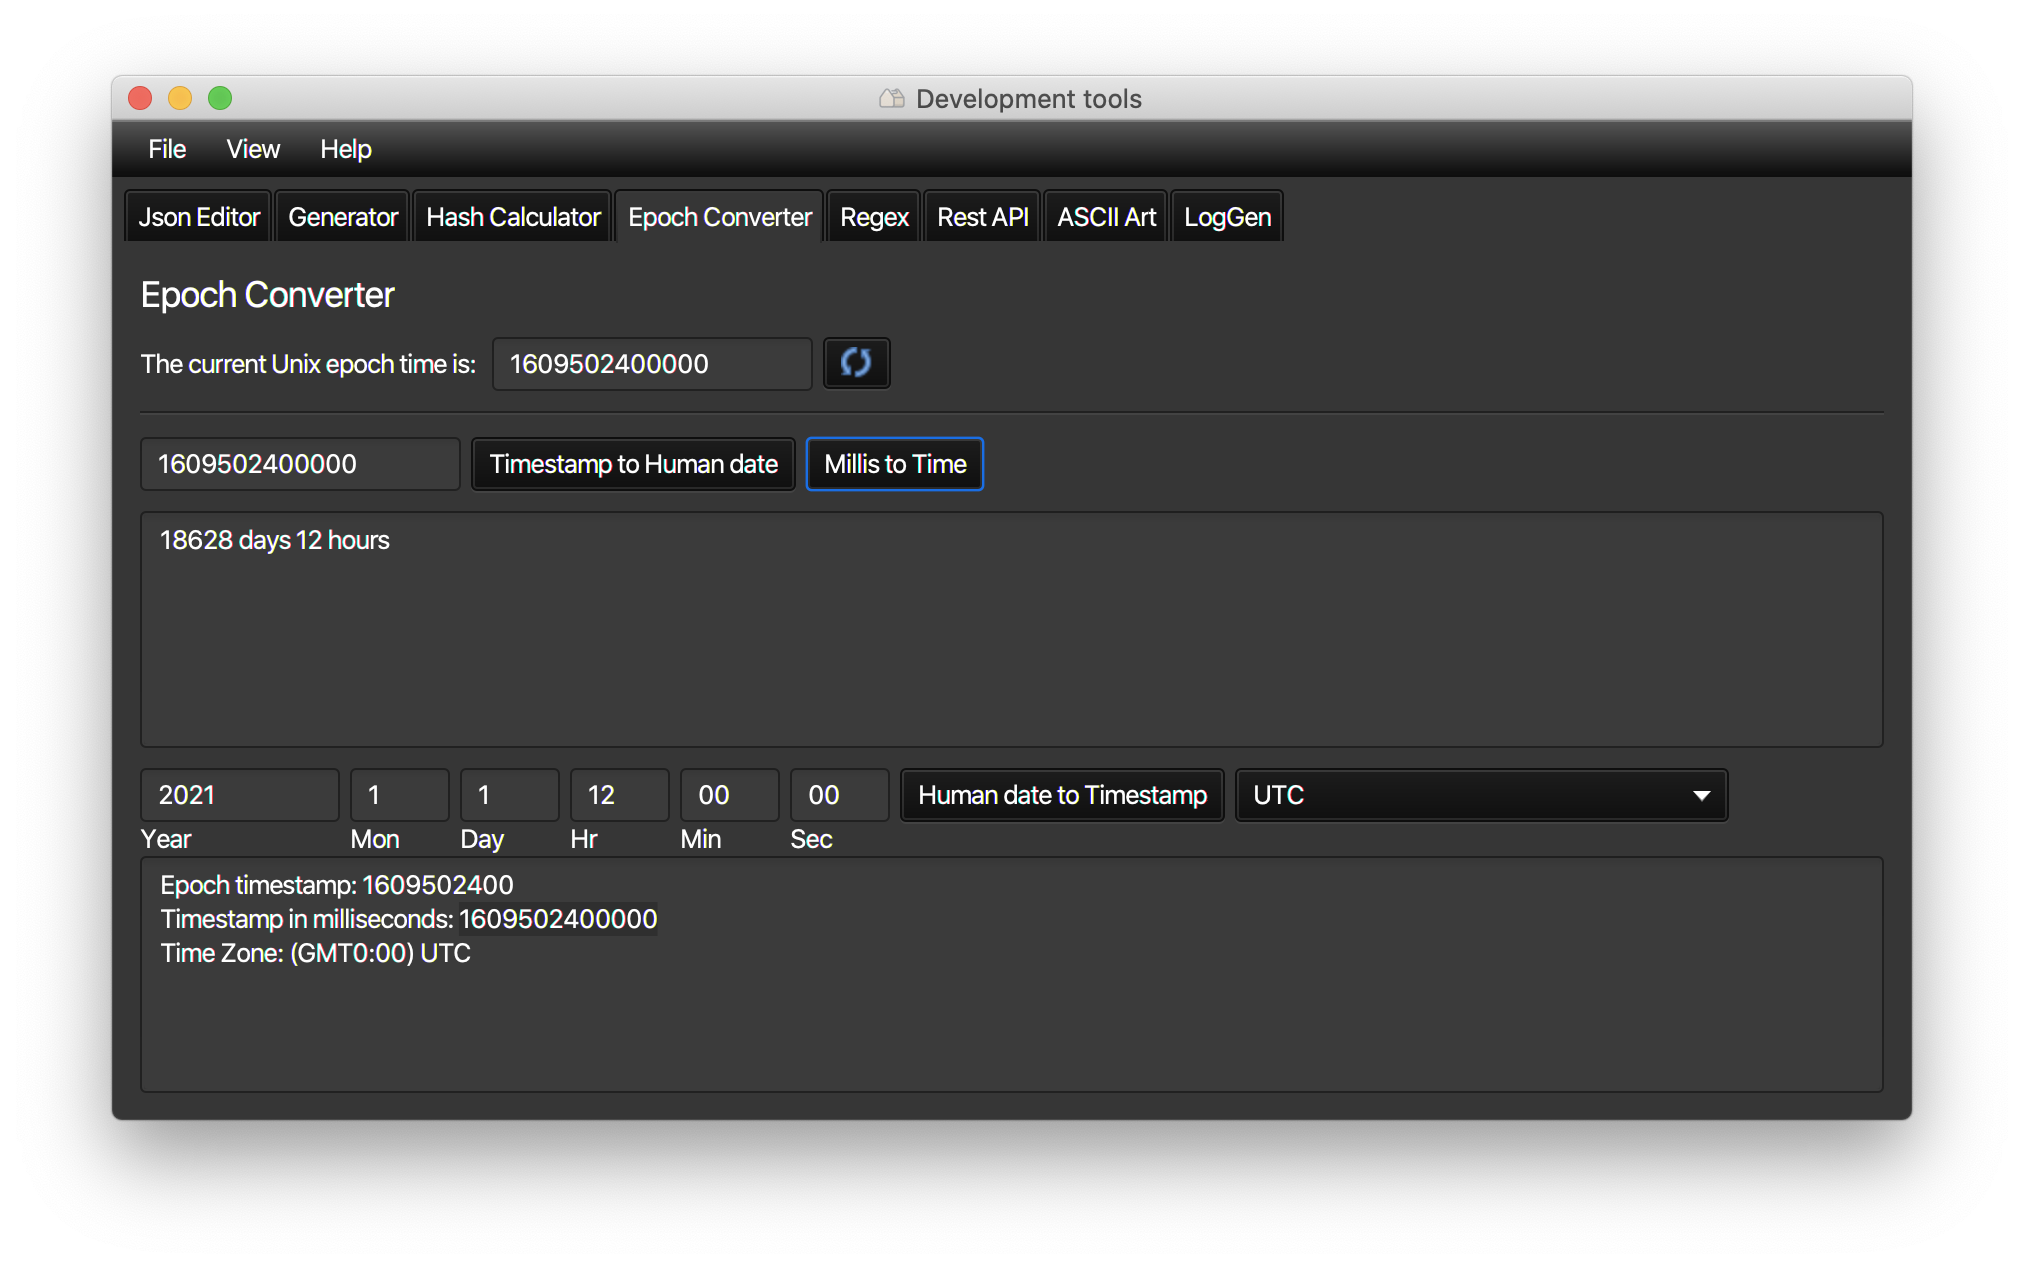
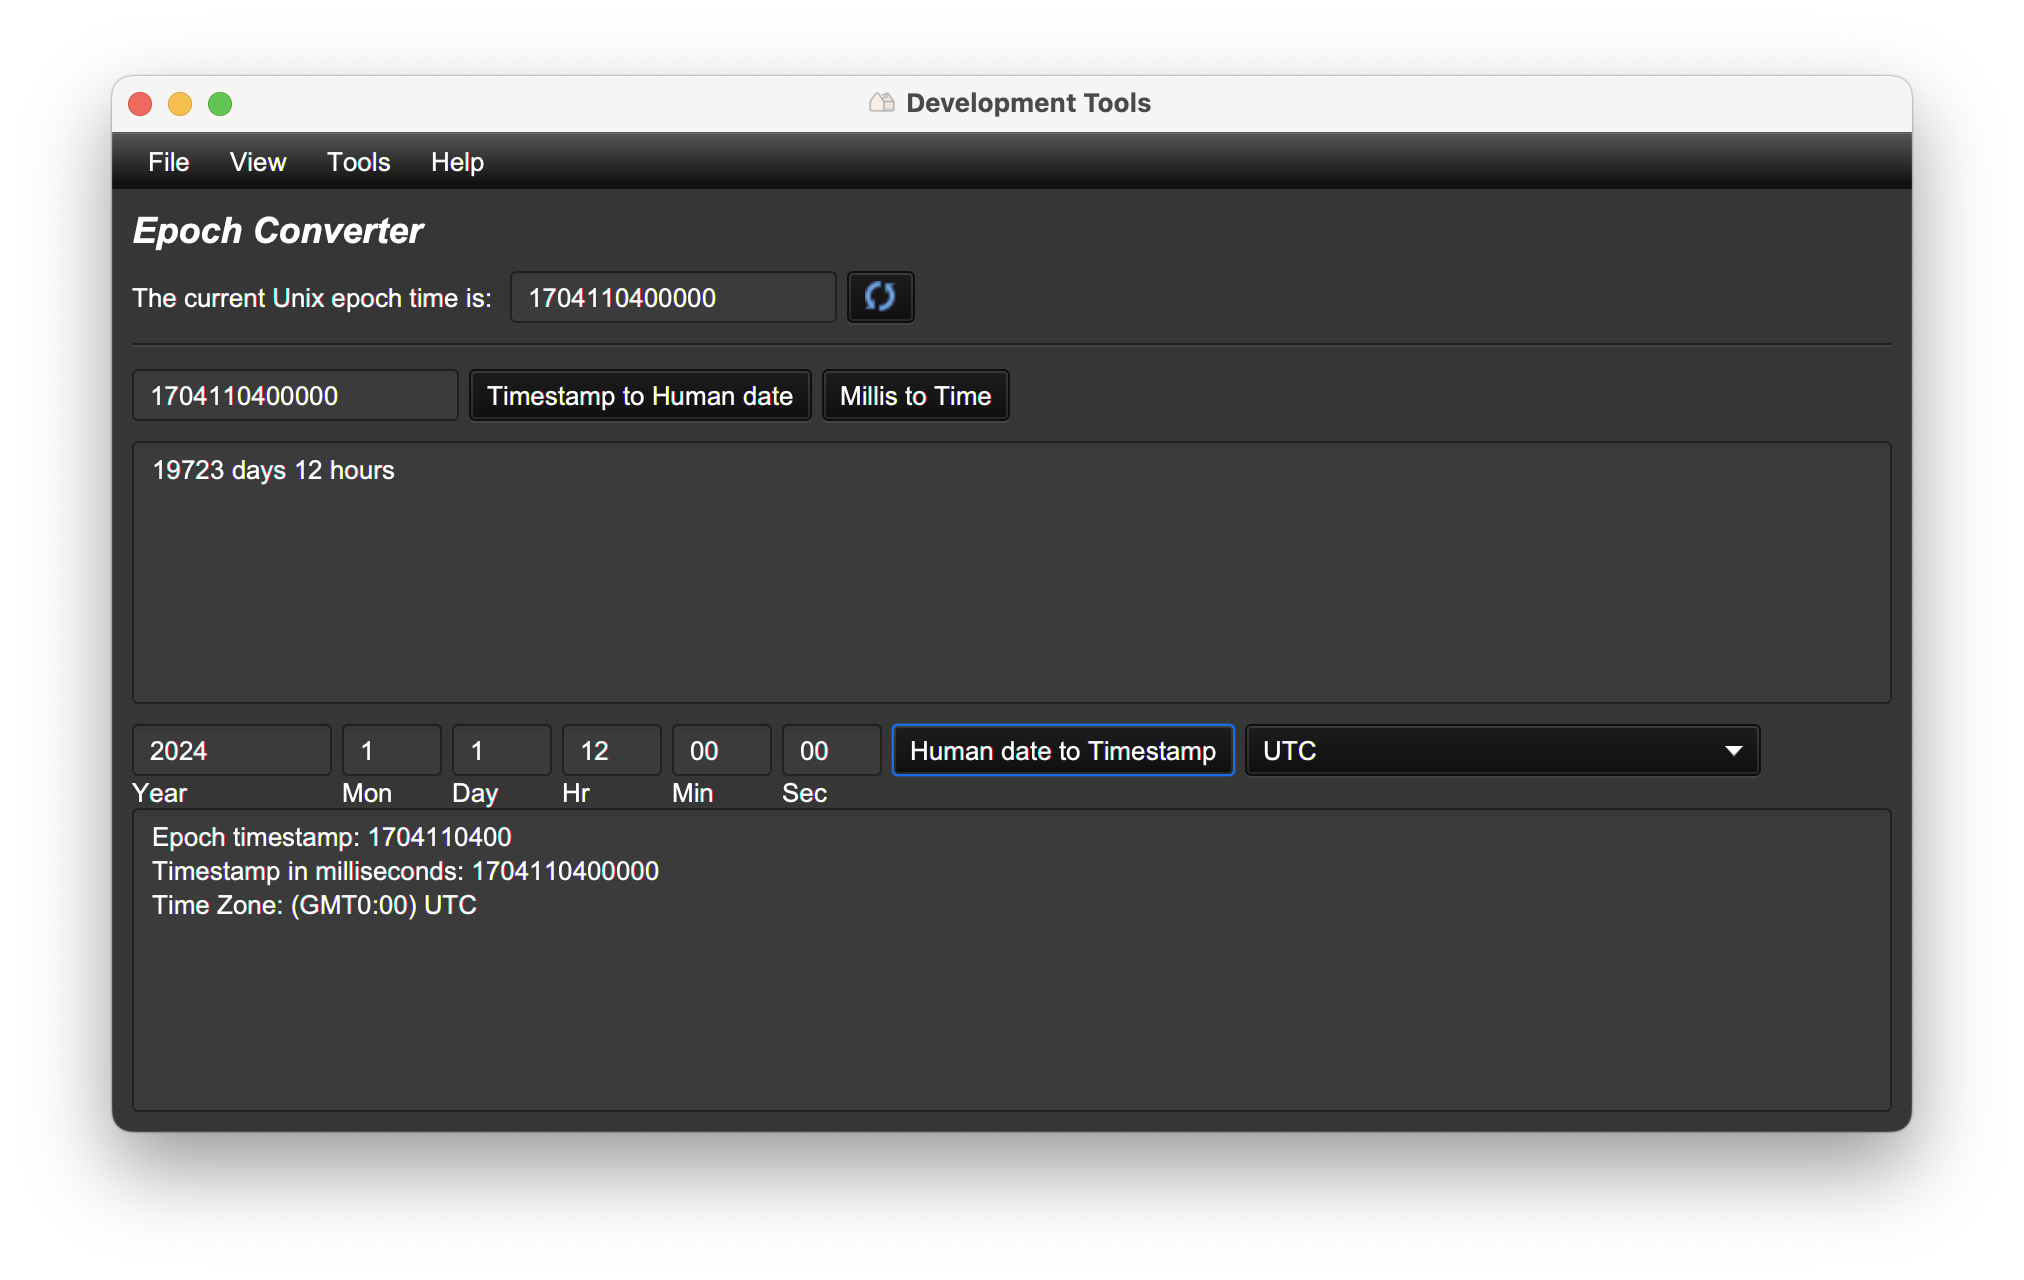
update readme documentation and screenshots

Changed region(s): [[0.0311, 0.0615, 0.9649, 0.4306], [0.0623, 0.5536, 0.8715, 0.7689]]

diff --git a/README.md b/README.md
@@ -1,107 +1,124 @@
 # dev-tools ![Build](https://github.com/reugn/dev-tools/workflows/Build/badge.svg)
 
-Widely used software developer tools in a single application.
-* [Json Editor](#json_editor)
-* [UUID/Password Generator](#generator)
-* [Hash Calculator](#hash_calculator)
-* [Epoch Converter](#epoch_converter)
-* [Regular Expression Tester](#regex)
-* [Rest API Tester](#rest_api)
-* [ASCII Graphics](#ascii)
-* [Logs Generator](#logs)
+A collection of developer utilities in a single desktop application.
+
+* [JSON Editor](#json-editor)
+* [Image Editor](#image-editor)
+* [Rest API Tester](#rest-api-tester)
+* [JWT Decoder](#jwt-decoder)
+* [UUID/Password Generator](#uuid-password-generator)
+* [Hash Calculator](#hash-calculator)
+* [Epoch Converter](#epoch-converter)
+* [Regular Expression Tester](#regular-expression-tester)
+* [ASCII Graphics](#ascii-graphics)
+* [Log Generator](#log-generator)
 
 ## Installation
-* `dev-tools` is a [JavaFX](https://openjfx.io/) Maven application.
-Build an executable jar from the source.
+
+`dev-tools` is a [JavaFX](https://openjfx.io/) desktop application built with Maven.
+Obtain a binary using one of the following methods:
+
+* Build an executable jar from the source.
+
 ```
-mvn clean package -U
+./mvnw clean package
 ```
 
-* Build a native application using the [GluonFX Maven plugin](https://github.com/gluonhq/gluonfx-maven-plugin).
-[GraalVM](https://www.graalvm.org/) installation is required.
+* Build a native application using [GluonFX Maven plugin](https://github.com/gluonhq/gluonfx-maven-plugin).
+  [GraalVM](https://www.graalvm.org/) installation is required. After obtaining the GraalVM distribution, the
+  environment variable `GRAALVM_HOME` should be set to point to it.
+
 ```
-mvn clean gluonfx:build
+./mvnw clean gluonfx:build
 ```
 
-* Download a build from the [releases](https://github.com/reugn/dev-tools/releases).
+* Download a build from [releases](https://github.com/reugn/dev-tools/releases).
 
 ## Prerequisites
-* Java 11 (JavaFX is not a part of Java SDK as of JDK 11).
 
-## Features
-* Dark/Light mode.
+* Java 11 or later
 
-## Tools List
+## Getting Started
 
-<a name="json_editor"/>
+* Launch the application. For the executable jar use `java -jar target/dev-tools-<version>.jar`.
+* Explore the main menu and its options.
+* Select a tool from the `Tools` dropdown menu. See below for a complete list with screenshots.
+* Switch between light and dark themes using the `View -> Theme` menu option.
+* Utilize keyboard shortcuts for faster navigation.
 
-### Json Editor
-* JSON pretty print with highlighting.
-* JSON validation.
-* Search Bar (Ctrl+F).
+## Tool List
+
+### JSON Editor
+
+Edit and analyze JSON using syntax highlighting, formatting, and validation.
+Use the built-in search (Ctrl+F) to find items. Navigate between documents using the multi-tab interface.
 
 ![](docs/images/json_editor.png)
 
-<a name="generator"/>
+### Image Editor
 
-### UUID/Password Generator
-* UUID Generator.
-* Password Generator.
+This tool incorporates an essential suite of functions for creating and editing images.
 
-![](docs/images/generator.png)
-
-<a name="hash_calculator"/>
-
-### Hash Calculator
-* Hash functions.
-* URL Encode/Decode.
-* Base64 Encode/Decode.
-
-![](docs/images/hash_calculator.png)
-
-<a name="epoch_converter"/>
-
-### Epoch Converter
-* Current Unix epoch time.
-* Timestamp to human date.
-* Human date to timestamp.
-
-![](docs/images/epoch_converter.png)
-
-<a name="regex"/>
-
-### Regular Expression Tester
-* Regex flags.
-* Capturing groups.
-
-![](docs/images/regex.png)
-
-<a name="rest_api"/>
+![](docs/images/image_editor.png)
 
 ### Rest API Tester
-* Rest API testing client.
-* Export/import HTTP request history.
+
+This tool provides a core set of functionalities for REST API testing.
+Manage and share your testing process via the export and import of HTTP request history.
+Access history features by Ctrl-clicking the history pane. Navigate between requests using the multi-tab interface.
 
 ![](docs/images/rest_api.png)
 
-<a name="ascii"/>
+### JWT Decoder
+
+Paste your JSON Web Token (JWT) into the input area to decode it. Use the provided buttons to
+decode, encode, and verify the JWT signature. For signature verification, select the correct algorithm and provide
+the necessary secrets.
+
+![](docs/images/jwt_decoder.png)
+
+### UUID-Password Generator
+
+Generate a series of UUIDs (Universally Unique Identifiers) or passwords according to the provided configuration
+controls.
+
+![](docs/images/generator.png)
+
+### Hash Calculator
+
+This utility performs cryptographic hashing and various encoding/decoding operations on input data.
+
+![](docs/images/hash_calculator.png)
+
+### Epoch Converter
+
+Epoch Converter is a utility for converting between Unix epoch time (seconds since January 1, 1970, 00:00:00 UTC)
+and human-readable dates. Features include displaying the current Unix epoch, timestamp to date/time
+conversion, and date/time to timestamp conversion.
+
+![](docs/images/epoch_converter.png)
+
+### Regular Expression Tester
+
+Regular Expression Tester is a tool for testing and debugging regular expressions (regex) featuring full regex flag
+support (i, m, u, etc.), comprehensive capturing group visualization and match highlighting.
+
+![](docs/images/regex_tester.png)
 
 ### ASCII Graphics
-* Convert text to ASCII art.
 
-![](docs/images/ascii.png)
+Easily turn your text into ASCII art. Customize the look with adjustable settings.
 
-<a name="logs"/>
+![](docs/images/ascii_graphics.png)
 
-### Logs Generator
-* Generate fake log workloads using a specified format.
-* Write to console.
-* Write to file.
+### Log Generator
 
-![](docs/images/logs.png)
+Log Generator creates customizable synthetic log data for testing and development.
+Choose from a selection of pre-defined standard log formats.
+Write the generated logs directly to the output pane, or save them to a file for later use.
 
-## Contributing
-If you find this project useful and want to contribute, please open an issue or create a PR.
+![](docs/images/log_generator.png)
 
 ## License
-Licensed under the Apache 2.0 License.
+
+Licensed under the Apache 2.0 license.
